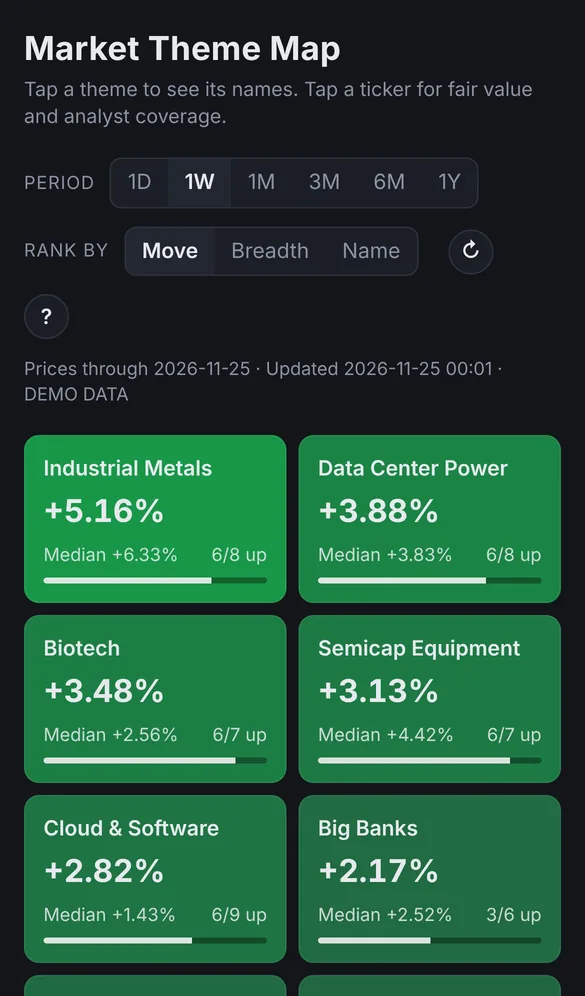
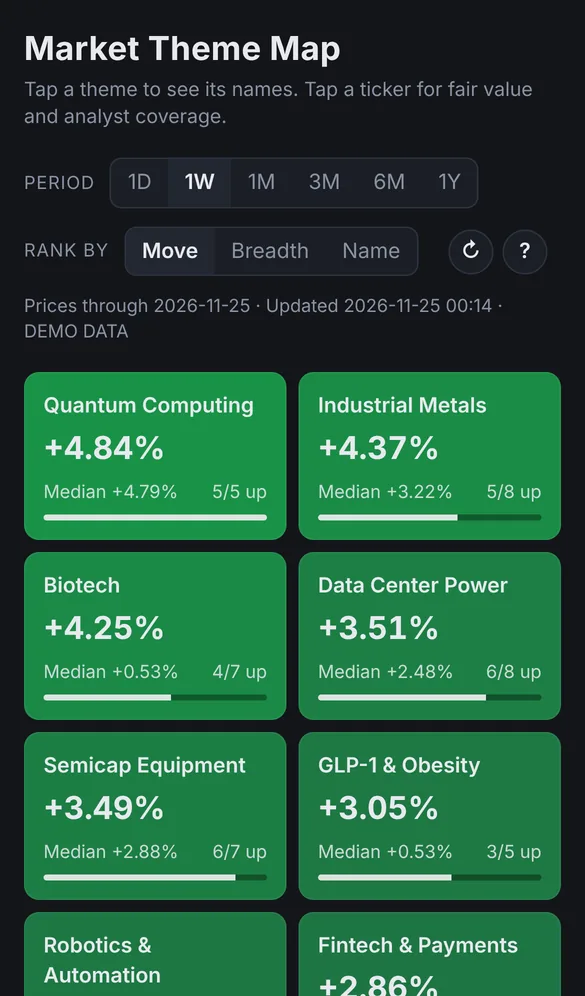
Market Theme Map: refresh screenshots and docs after app fixes
New demo-data screenshots (52-week range filled, phone buttons on one line),
and docs for background refresh and kept prices for skipped symbols.

Claude-Session: https://claude.ai/code/session_01VvQfTPPDT4eVSKN34UMBzW

diff --git a/docs/projects/market-theme-map/features.md b/docs/projects/market-theme-map/features.md
@@ -46,7 +46,7 @@ and move. Each move is drawn as a bar to the right of the center line for gains
 and to the left for losses, scaled to the theme's biggest mover. The average,
 median and number advancing sit at the top.
 
-![Data Center Power theme detail: VRT, GEV, TLN, VST, PWR and CEG up, ETN and NRG down, with an average of +9.68%](../../assets/images/market-theme-map/1-theme-detail.webp){ .screenshot loading=lazy }
+![Data Center Power theme detail: each stock's price and move, gains drawn right of zero in green and losses left in red, with the theme's average, median and number advancing at the top](../../assets/images/market-theme-map/1-theme-detail.webp){ .screenshot loading=lazy }
 
 ## Stock detail
 
@@ -56,7 +56,8 @@ Click a stock for:
 - **Fair value**, the analysts' mean price target, and the **upside** from today's price
 - The low and high targets and the number of analysts
 - The **consensus** rating, such as Buy or Hold, with its score (1 is strong buy, 5 is sell)
-- Trailing and forward P/E, market cap and the 52-week range
+- Trailing and forward P/E, market cap and the 52-week range (worked out from the
+  price history when Yahoo doesn't supply it)
 - Every theme the stock belongs to
 
 Analyst data is fetched when you open a stock and kept for 6 hours.
@@ -82,10 +83,13 @@ REITs & Real Estate, Industrial Metals and Healthcare Services.
 
 - Prices come from Yahoo Finance's free, delayed chart data: 14 months of daily
   closes for every stock, so even 1Y has enough history.
-- The app refreshes prices every 5 minutes, and the page reloads itself on the
-  same schedule. **↻** refreshes right away.
+- The app downloads new prices every 5 minutes, in the background, so the page
+  stays responsive while it does. The page checks for new figures every minute,
+  and **↻** refreshes right away.
 - If Yahoo stops answering, the app keeps showing the last good data and tries
   again a minute later. The status line says the last refresh failed.
+- If Yahoo skips a few symbols in one refresh, those stocks keep their previous
+  prices rather than going blank.
 
 ## On your phone
 

diff --git a/docs/projects/market-theme-map/faq.md b/docs/projects/market-theme-map/faq.md
@@ -5,8 +5,8 @@
     up for. To try it without internet, start it with `--demo`.
 
 ??? question "Is the data real time?"
-    No. Yahoo's free prices can be delayed, and the app refreshes every 5
-    minutes. It's meant for a
+    No. Yahoo's free prices can be delayed, and the app downloads new ones
+    every 5 minutes. It's meant for a
     picture of the market, not for timing trades.
 
 ??? question "Do I need to install any packages?"
@@ -27,9 +27,11 @@
     with `--port 8051`.
 
 ??? question "A stock shows \"no data\""
-    Yahoo didn't return prices for that symbol. Check it's written the way
-    Yahoo writes it (for example `BRK-B`, not `BRK.B`), and that it still
-    trades. The theme's figures leave it out.
+    Yahoo has never returned prices for that symbol since the app started.
+    (A stock Yahoo skips in one refresh keeps its last prices, so "no data"
+    means it isn't coming through at all.) Check it's written the way Yahoo
+    writes it (for example `BRK-B`, not `BRK.B`), and that it still trades.
+    The theme's figures leave it out.
 
 ??? question "How are the theme figures calculated?"
     Each stock counts equally. The average is the mean of the stocks' moves,

diff --git a/docs/projects/market-theme-map/screenshots.md b/docs/projects/market-theme-map/screenshots.md
@@ -18,8 +18,8 @@ right of zero.
 
 ## Stock detail
 
-A stock's price chart, fair value and upside, analyst targets, consensus, P/E
-and market cap.
+A stock's price chart, fair value and upside, analyst targets, consensus, P/E,
+market cap and 52-week range.
 
 ![VRT stock detail with a price chart, fair value, upside and analyst figures](../../assets/images/market-theme-map/2-stock-detail.webp){ .screenshot loading=lazy }
 
@@ -37,6 +37,7 @@ The help panel, which opens the first time and from the **?** button.
 
 ## On a phone
 
-Two tiles per row on a small screen.
+Two tiles per row on a small screen, with the refresh and help buttons next to
+the ranking.
 
 ![Market Theme Map on a phone, with the period and ranking buttons above two columns of theme tiles](../../assets/images/market-theme-map/5-phone.webp){ .screenshot loading=lazy width="320" }
